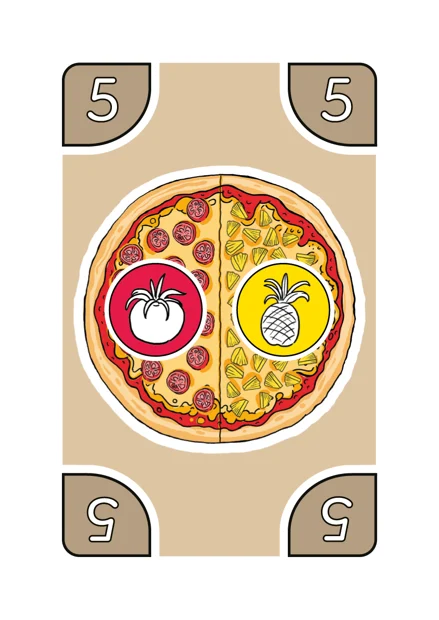
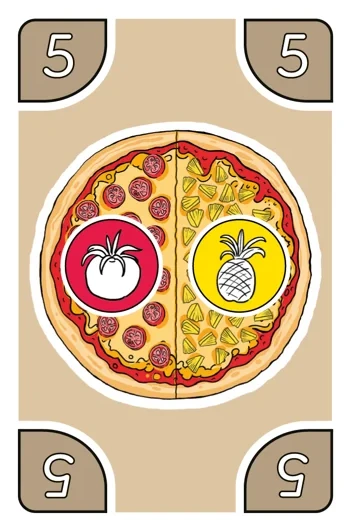
Korttipelisivun korttikuvat: läpinäkyvä reunus pois, varjo kortin muodon mukaan
Claude-Session: https://claude.ai/code/session_01Jrb5sMZjYt7DdvpXLCZY5S

diff --git a/docs/de/korttipeli.html b/docs/de/korttipeli.html
@@ -10,7 +10,7 @@
 <link rel="apple-touch-icon" href="../favicon-180.png">
 <link rel="preload" href="../fontit/poppins-400.woff2" as="font" type="font/woff2" crossorigin>
 <link rel="preload" href="../fontit/poppins-800.woff2" as="font" type="font/woff2" crossorigin>
-<link rel="stylesheet" href="../tyyli.css?v=36d48558">
+<link rel="stylesheet" href="../tyyli.css?v=ae012111">
 <link rel="canonical" href="https://pizzalove.fi/de/korttipeli.html">
 <link rel="alternate" hreflang="fi" href="https://pizzalove.fi/fi/korttipeli.html"><link rel="alternate" hreflang="sv" href="https://pizzalove.fi/sv/korttipeli.html"><link rel="alternate" hreflang="en" href="https://pizzalove.fi/en/korttipeli.html"><link rel="alternate" hreflang="de" href="https://pizzalove.fi/de/korttipeli.html"><link rel="alternate" hreflang="x-default" href="https://pizzalove.fi/">
 <meta property="og:title" content="Pizza Love® Kartenspiel – Regeln und Videos">
@@ -48,8 +48,8 @@
 <h2 id="perusteet">So entsteht eine Pizza</h2>
 <p>Alle drei Spiele beruhen auf derselben Grundregel. Lerne sie zuerst.</p>
 <div class="korttiparit">
-  <div class="korttipari"><img src="../kuvat/tausta-pizza.webp" width="439" height="620" alt=""><div><h3 style="margin-top:0">Pizzakarten</h3><p>Auf einer Pizzakarte ist eine Pizza mit einem bis vier verschiedenen Belägen. In den Ecken steht der Wert der Pizza (1–10). Im Spiel gibt es 10 Herzpizzas mit dem Wert 10.</p></div></div>
-  <div class="korttipari"><img src="../kuvat/tausta-tayte.webp" width="439" height="620" alt=""><div><h3 style="margin-top:0">Belagkarten</h3><p>Auf einer Belagkarte ist ein Belag. In den Ecken steht der Wert des Belags (1–10). Die 3 Fantasiebeläge (X) können jeder beliebige Belag sein.</p></div></div>
+  <div class="korttipari"><img src="../kuvat/tausta-pizza.webp" width="351" height="532" alt=""><div><h3 style="margin-top:0">Pizzakarten</h3><p>Auf einer Pizzakarte ist eine Pizza mit einem bis vier verschiedenen Belägen. In den Ecken steht der Wert der Pizza (1–10). Im Spiel gibt es 10 Herzpizzas mit dem Wert 10.</p></div></div>
+  <div class="korttipari"><img src="../kuvat/tausta-tayte.webp" width="351" height="532" alt=""><div><h3 style="margin-top:0">Belagkarten</h3><p>Auf einer Belagkarte ist ein Belag. In den Ecken steht der Wert des Belags (1–10). Die 3 Fantasiebeläge (X) können jeder beliebige Belag sein.</p></div></div>
 </div>
 
 <div class="laatikko">
@@ -59,9 +59,9 @@
   <p>Bereite die Pizza mit deinen eigenen Belagkarten zu und sage laut die Rechnung, die den Wert der Pizza ergibt. Alle Rechenarten sind erlaubt und dürfen kombiniert werden, solange das Ergebnis dem Wert der Pizza entspricht. Zum Beispiel <b>5 = 2 + 4 – 1</b>.</p>
   <h3>Beispiel: Tomaten-Ananas-Pizza</h3>
   <div class="esimerkki" role="img" aria-label="Eine Pizzakarte mit dem Wert 5, eine Tomate (2) und eine Ananas (3)">
-    <img src="../kuvat/pizza-31.webp" width="439" height="620" alt=""><b>=</b>
-    <img src="../kuvat/tayte-2.webp" width="439" height="620" alt=""><b>+</b>
-    <img src="../kuvat/tayte-3.webp" width="439" height="620" alt="">
+    <img src="../kuvat/pizza-31.webp" width="351" height="532" alt=""><b>=</b>
+    <img src="../kuvat/tayte-2.webp" width="351" height="532" alt=""><b>+</b>
+    <img src="../kuvat/tayte-3.webp" width="351" height="532" alt="">
   </div>
   <p>Die Pizza hat zwei Beläge und den Wert 5. Tomate 2 + Ananas 3 = 5. Es gibt noch andere Wege: 4 + 1, 6 – 1 oder sogar 10 : 2.</p>
 </div>

diff --git a/docs/sv/korttipeli.html b/docs/sv/korttipeli.html
@@ -10,7 +10,7 @@
 <link rel="apple-touch-icon" href="../favicon-180.png">
 <link rel="preload" href="../fontit/poppins-400.woff2" as="font" type="font/woff2" crossorigin>
 <link rel="preload" href="../fontit/poppins-800.woff2" as="font" type="font/woff2" crossorigin>
-<link rel="stylesheet" href="../tyyli.css?v=36d48558">
+<link rel="stylesheet" href="../tyyli.css?v=ae012111">
 <link rel="canonical" href="https://pizzalove.fi/sv/korttipeli.html">
 <link rel="alternate" hreflang="fi" href="https://pizzalove.fi/fi/korttipeli.html"><link rel="alternate" hreflang="sv" href="https://pizzalove.fi/sv/korttipeli.html"><link rel="alternate" hreflang="en" href="https://pizzalove.fi/en/korttipeli.html"><link rel="alternate" hreflang="de" href="https://pizzalove.fi/de/korttipeli.html"><link rel="alternate" hreflang="x-default" href="https://pizzalove.fi/">
 <meta property="og:title" content="Pizza Love® kortspel – regler och videor">
@@ -48,8 +48,8 @@
 <h2 id="perusteet">Så tillagar du en pizza</h2>
 <p>Alla tre spelen bygger på samma grundregel. Lär dig den först.</p>
 <div class="korttiparit">
-  <div class="korttipari"><img src="../kuvat/tausta-pizza.webp" width="439" height="620" alt=""><div><h3 style="margin-top:0">Pizzakort</h3><p>På pizzakortet finns en pizza med en till fyra olika fyllningar. I kortets hörn syns pizzans värde (1–10). Spelet innehåller 10 hjärtpizzor med värdet 10.</p></div></div>
-  <div class="korttipari"><img src="../kuvat/tausta-tayte.webp" width="439" height="620" alt=""><div><h3 style="margin-top:0">Fyllningskort</h3><p>På fyllningskortet finns en fyllning. I kortets hörn syns fyllningens värde (1–10). De 3 fantasifyllningarna (X) kan vara vilken fyllning som helst.</p></div></div>
+  <div class="korttipari"><img src="../kuvat/tausta-pizza.webp" width="351" height="532" alt=""><div><h3 style="margin-top:0">Pizzakort</h3><p>På pizzakortet finns en pizza med en till fyra olika fyllningar. I kortets hörn syns pizzans värde (1–10). Spelet innehåller 10 hjärtpizzor med värdet 10.</p></div></div>
+  <div class="korttipari"><img src="../kuvat/tausta-tayte.webp" width="351" height="532" alt=""><div><h3 style="margin-top:0">Fyllningskort</h3><p>På fyllningskortet finns en fyllning. I kortets hörn syns fyllningens värde (1–10). De 3 fantasifyllningarna (X) kan vara vilken fyllning som helst.</p></div></div>
 </div>
 
 <div class="laatikko">
@@ -59,9 +59,9 @@
   <p>Tillaga pizzan med dina egna fyllningskort och säg högt den räkneoperation som ger pizzans värde. Alla räknesätt är tillåtna och kan kombineras, så länge resultatet är lika med pizzans värde. Till exempel <b>5 = 2 + 4 – 1</b>.</p>
   <h3>Exempel: tomat-ananas-pizza</h3>
   <div class="esimerkki" role="img" aria-label="Ett pizzakort med värdet 5, en tomat (2) och en ananas (3)">
-    <img src="../kuvat/pizza-31.webp" width="439" height="620" alt=""><b>=</b>
-    <img src="../kuvat/tayte-2.webp" width="439" height="620" alt=""><b>+</b>
-    <img src="../kuvat/tayte-3.webp" width="439" height="620" alt="">
+    <img src="../kuvat/pizza-31.webp" width="351" height="532" alt=""><b>=</b>
+    <img src="../kuvat/tayte-2.webp" width="351" height="532" alt=""><b>+</b>
+    <img src="../kuvat/tayte-3.webp" width="351" height="532" alt="">
   </div>
   <p>Pizzan har två fyllningar och dess värde är 5. Tomat 2 + ananas 3 = 5. Det finns fler sätt: 4 + 1, 6 – 1 eller till och med 10 : 2.</p>
 </div>

diff --git a/docs/en/korttipeli.html b/docs/en/korttipeli.html
@@ -10,7 +10,7 @@
 <link rel="apple-touch-icon" href="../favicon-180.png">
 <link rel="preload" href="../fontit/poppins-400.woff2" as="font" type="font/woff2" crossorigin>
 <link rel="preload" href="../fontit/poppins-800.woff2" as="font" type="font/woff2" crossorigin>
-<link rel="stylesheet" href="../tyyli.css?v=36d48558">
+<link rel="stylesheet" href="../tyyli.css?v=ae012111">
 <link rel="canonical" href="https://pizzalove.fi/en/korttipeli.html">
 <link rel="alternate" hreflang="fi" href="https://pizzalove.fi/fi/korttipeli.html"><link rel="alternate" hreflang="sv" href="https://pizzalove.fi/sv/korttipeli.html"><link rel="alternate" hreflang="en" href="https://pizzalove.fi/en/korttipeli.html"><link rel="alternate" hreflang="de" href="https://pizzalove.fi/de/korttipeli.html"><link rel="alternate" hreflang="x-default" href="https://pizzalove.fi/">
 <meta property="og:title" content="Pizza Love® card game – rules and videos">
@@ -48,8 +48,8 @@
 <h2 id="perusteet">How to make a pizza</h2>
 <p>All three games use the same basic rule. Learn this first.</p>
 <div class="korttiparit">
-  <div class="korttipari"><img src="../kuvat/tausta-pizza.webp" width="439" height="620" alt=""><div><h3 style="margin-top:0">Pizza cards</h3><p>A pizza card shows a pizza with one to four different toppings. The pizza’s value (1–10) is shown in the corners. The game includes 10 heart pizzas with the value 10.</p></div></div>
-  <div class="korttipari"><img src="../kuvat/tausta-tayte.webp" width="439" height="620" alt=""><div><h3 style="margin-top:0">Topping cards</h3><p>A topping card shows one topping. The topping’s value (1–10) is shown in the corners. The 3 fantasy toppings (X) can be any topping.</p></div></div>
+  <div class="korttipari"><img src="../kuvat/tausta-pizza.webp" width="351" height="532" alt=""><div><h3 style="margin-top:0">Pizza cards</h3><p>A pizza card shows a pizza with one to four different toppings. The pizza’s value (1–10) is shown in the corners. The game includes 10 heart pizzas with the value 10.</p></div></div>
+  <div class="korttipari"><img src="../kuvat/tausta-tayte.webp" width="351" height="532" alt=""><div><h3 style="margin-top:0">Topping cards</h3><p>A topping card shows one topping. The topping’s value (1–10) is shown in the corners. The 3 fantasy toppings (X) can be any topping.</p></div></div>
 </div>
 
 <div class="laatikko">
@@ -59,9 +59,9 @@
   <p>Make a pizza with your own topping cards and say aloud the calculation that matches the pizza’s value. All calculations are allowed and can be combined, as long as the result equals the pizza’s value. For example <b>5 = 2 + 4 – 1</b>.</p>
   <h3>Example: tomato–pineapple pizza</h3>
   <div class="esimerkki" role="img" aria-label="A pizza card with the value 5, a tomato (2) and a pineapple (3)">
-    <img src="../kuvat/pizza-31.webp" width="439" height="620" alt=""><b>=</b>
-    <img src="../kuvat/tayte-2.webp" width="439" height="620" alt=""><b>+</b>
-    <img src="../kuvat/tayte-3.webp" width="439" height="620" alt="">
+    <img src="../kuvat/pizza-31.webp" width="351" height="532" alt=""><b>=</b>
+    <img src="../kuvat/tayte-2.webp" width="351" height="532" alt=""><b>+</b>
+    <img src="../kuvat/tayte-3.webp" width="351" height="532" alt="">
   </div>
   <p>The pizza has two toppings and its value is 5. Tomato 2 + pineapple 3 = 5. There are other ways too: 4 + 1, 6 – 1 or even 10 : 2.</p>
 </div>

diff --git a/docs/fi/korttipeli.html b/docs/fi/korttipeli.html
@@ -10,7 +10,7 @@
 <link rel="apple-touch-icon" href="../favicon-180.png">
 <link rel="preload" href="../fontit/poppins-400.woff2" as="font" type="font/woff2" crossorigin>
 <link rel="preload" href="../fontit/poppins-800.woff2" as="font" type="font/woff2" crossorigin>
-<link rel="stylesheet" href="../tyyli.css?v=36d48558">
+<link rel="stylesheet" href="../tyyli.css?v=ae012111">
 <link rel="canonical" href="https://pizzalove.fi/fi/korttipeli.html">
 <link rel="alternate" hreflang="fi" href="https://pizzalove.fi/fi/korttipeli.html"><link rel="alternate" hreflang="sv" href="https://pizzalove.fi/sv/korttipeli.html"><link rel="alternate" hreflang="en" href="https://pizzalove.fi/en/korttipeli.html"><link rel="alternate" hreflang="de" href="https://pizzalove.fi/de/korttipeli.html"><link rel="alternate" hreflang="x-default" href="https://pizzalove.fi/">
 <meta property="og:title" content="Pizza Love® -korttipeli – säännöt ja videot">
@@ -48,8 +48,8 @@
 <h2 id="perusteet">Näin pizza tehdään</h2>
 <p>Kaikki kolme peliä perustuvat samaan sääntöön. Opettele tämä ensin.</p>
 <div class="korttiparit">
-  <div class="korttipari"><img src="../kuvat/tausta-pizza.webp" width="439" height="620" alt=""><div><h3 style="margin-top:0">Pizzakortit</h3><p>Pizzakortissa on pizza, jossa on yhdestä neljään eri täytettä. Kortin kulmissa on pizzan arvo (1–10). Pelissä on 10 sydänpizzaa, joiden arvo on 10.</p></div></div>
-  <div class="korttipari"><img src="../kuvat/tausta-tayte.webp" width="439" height="620" alt=""><div><h3 style="margin-top:0">Täytekortit</h3><p>Täytekortissa on yksi täyte. Kortin kulmissa on täytteen arvo (1–10). Kolme fantasiatäytettä (X) voivat olla mikä tahansa täyte.</p></div></div>
+  <div class="korttipari"><img src="../kuvat/tausta-pizza.webp" width="351" height="532" alt=""><div><h3 style="margin-top:0">Pizzakortit</h3><p>Pizzakortissa on pizza, jossa on yhdestä neljään eri täytettä. Kortin kulmissa on pizzan arvo (1–10). Pelissä on 10 sydänpizzaa, joiden arvo on 10.</p></div></div>
+  <div class="korttipari"><img src="../kuvat/tausta-tayte.webp" width="351" height="532" alt=""><div><h3 style="margin-top:0">Täytekortit</h3><p>Täytekortissa on yksi täyte. Kortin kulmissa on täytteen arvo (1–10). Kolme fantasiatäytettä (X) voivat olla mikä tahansa täyte.</p></div></div>
 </div>
 
 <div class="laatikko">
@@ -59,9 +59,9 @@
   <p>Valmista pizza omilla täytekorteillasi ja sano ääneen laskutoimitus, jolla saat pizzan arvon. Kaikki laskutoimitukset ovat sallittuja ja niitä saa yhdistää, kunhan tulos on pizzan arvo. Esimerkiksi <b>5 = 2 + 4 – 1</b>.</p>
   <h3>Esimerkki: tomaatti-ananaspizza</h3>
   <div class="esimerkki" role="img" aria-label="Pizzakortti, jonka arvo on 5, sekä tomaatti (2) ja ananas (3)">
-    <img src="../kuvat/pizza-31.webp" width="439" height="620" alt=""><b>=</b>
-    <img src="../kuvat/tayte-2.webp" width="439" height="620" alt=""><b>+</b>
-    <img src="../kuvat/tayte-3.webp" width="439" height="620" alt="">
+    <img src="../kuvat/pizza-31.webp" width="351" height="532" alt=""><b>=</b>
+    <img src="../kuvat/tayte-2.webp" width="351" height="532" alt=""><b>+</b>
+    <img src="../kuvat/tayte-3.webp" width="351" height="532" alt="">
   </div>
   <p>Pizzassa on kaksi täytettä ja sen arvo on 5. Tomaatti 2 + ananas 3 = 5. Muitakin tapoja on: 4 + 1, 6 – 1 tai jopa 10 : 2.</p>
 </div>

diff --git a/docs/fi/lautapeli.html b/docs/fi/lautapeli.html
@@ -10,7 +10,7 @@
 <link rel="apple-touch-icon" href="../favicon-180.png">
 <link rel="preload" href="../fontit/poppins-400.woff2" as="font" type="font/woff2" crossorigin>
 <link rel="preload" href="../fontit/poppins-800.woff2" as="font" type="font/woff2" crossorigin>
-<link rel="stylesheet" href="../tyyli.css?v=36d48558">
+<link rel="stylesheet" href="../tyyli.css?v=ae012111">
 <link rel="canonical" href="https://pizzalove.fi/fi/lautapeli.html">
 <link rel="alternate" hreflang="fi" href="https://pizzalove.fi/fi/lautapeli.html"><link rel="alternate" hreflang="sv" href="https://pizzalove.fi/sv/lautapeli.html"><link rel="alternate" hreflang="en" href="https://pizzalove.fi/en/lautapeli.html"><link rel="alternate" hreflang="de" href="https://pizzalove.fi/de/lautapeli.html"><link rel="alternate" hreflang="x-default" href="https://pizzalove.fi/">
 <meta property="og:title" content="Pizza Love® -lautapeli – säännöt ja videot">

diff --git a/docs/de/lautapeli.html b/docs/de/lautapeli.html
@@ -10,7 +10,7 @@
 <link rel="apple-touch-icon" href="../favicon-180.png">
 <link rel="preload" href="../fontit/poppins-400.woff2" as="font" type="font/woff2" crossorigin>
 <link rel="preload" href="../fontit/poppins-800.woff2" as="font" type="font/woff2" crossorigin>
-<link rel="stylesheet" href="../tyyli.css?v=36d48558">
+<link rel="stylesheet" href="../tyyli.css?v=ae012111">
 <link rel="canonical" href="https://pizzalove.fi/de/lautapeli.html">
 <link rel="alternate" hreflang="fi" href="https://pizzalove.fi/fi/lautapeli.html"><link rel="alternate" hreflang="sv" href="https://pizzalove.fi/sv/lautapeli.html"><link rel="alternate" hreflang="en" href="https://pizzalove.fi/en/lautapeli.html"><link rel="alternate" hreflang="de" href="https://pizzalove.fi/de/lautapeli.html"><link rel="alternate" hreflang="x-default" href="https://pizzalove.fi/">
 <meta property="og:title" content="Pizza Love® Brettspiel – Regeln und Videos">

diff --git a/docs/en/lautapeli.html b/docs/en/lautapeli.html
@@ -10,7 +10,7 @@
 <link rel="apple-touch-icon" href="../favicon-180.png">
 <link rel="preload" href="../fontit/poppins-400.woff2" as="font" type="font/woff2" crossorigin>
 <link rel="preload" href="../fontit/poppins-800.woff2" as="font" type="font/woff2" crossorigin>
-<link rel="stylesheet" href="../tyyli.css?v=36d48558">
+<link rel="stylesheet" href="../tyyli.css?v=ae012111">
 <link rel="canonical" href="https://pizzalove.fi/en/lautapeli.html">
 <link rel="alternate" hreflang="fi" href="https://pizzalove.fi/fi/lautapeli.html"><link rel="alternate" hreflang="sv" href="https://pizzalove.fi/sv/lautapeli.html"><link rel="alternate" hreflang="en" href="https://pizzalove.fi/en/lautapeli.html"><link rel="alternate" hreflang="de" href="https://pizzalove.fi/de/lautapeli.html"><link rel="alternate" hreflang="x-default" href="https://pizzalove.fi/">
 <meta property="og:title" content="Pizza Love® board game – rules and videos">

diff --git a/docs/sv/lautapeli.html b/docs/sv/lautapeli.html
@@ -10,7 +10,7 @@
 <link rel="apple-touch-icon" href="../favicon-180.png">
 <link rel="preload" href="../fontit/poppins-400.woff2" as="font" type="font/woff2" crossorigin>
 <link rel="preload" href="../fontit/poppins-800.woff2" as="font" type="font/woff2" crossorigin>
-<link rel="stylesheet" href="../tyyli.css?v=36d48558">
+<link rel="stylesheet" href="../tyyli.css?v=ae012111">
 <link rel="canonical" href="https://pizzalove.fi/sv/lautapeli.html">
 <link rel="alternate" hreflang="fi" href="https://pizzalove.fi/fi/lautapeli.html"><link rel="alternate" hreflang="sv" href="https://pizzalove.fi/sv/lautapeli.html"><link rel="alternate" hreflang="en" href="https://pizzalove.fi/en/lautapeli.html"><link rel="alternate" hreflang="de" href="https://pizzalove.fi/de/lautapeli.html"><link rel="alternate" hreflang="x-default" href="https://pizzalove.fi/">
 <meta property="og:title" content="Pizza Love® brädspel – regler och videor">

diff --git a/docs/tyyli.css b/docs/tyyli.css
@@ -167,11 +167,11 @@ ul.lista li,ol.lista li{margin:4px 0}
 
 /* Esimerkkikortit: pizza = täyte + täyte */
 .esimerkki{display:flex;align-items:center;justify-content:center;gap:8px;flex-wrap:wrap;margin:10px 0 14px}
-.esimerkki img{width:clamp(64px,18vw,104px);border-radius:8px;box-shadow:0 2px 8px rgba(0,0,0,.12)}
+.esimerkki img{width:clamp(64px,18vw,104px);filter:drop-shadow(0 3px 6px rgba(60,30,0,.22))}
 .esimerkki b{font-size:26px;font-weight:800;color:var(--soft)}
 .korttiparit{display:grid;grid-template-columns:1fr 1fr;gap:12px;margin:8px 0}
 .korttipari{display:grid;grid-template-columns:72px 1fr;gap:12px;align-items:start}
-.korttipari img{width:72px;border-radius:6px;box-shadow:0 2px 6px rgba(0,0,0,.12)}
+.korttipari img{width:64px;filter:drop-shadow(0 3px 5px rgba(60,30,0,.2))}
 .korttipari p{font-size:14.5px;margin:0}
 @media (max-width:560px){.korttiparit{grid-template-columns:1fr}}
 

diff --git a/julkinen/tyyli.css b/julkinen/tyyli.css
@@ -167,11 +167,11 @@ ul.lista li,ol.lista li{margin:4px 0}
 
 /* Esimerkkikortit: pizza = täyte + täyte */
 .esimerkki{display:flex;align-items:center;justify-content:center;gap:8px;flex-wrap:wrap;margin:10px 0 14px}
-.esimerkki img{width:clamp(64px,18vw,104px);border-radius:8px;box-shadow:0 2px 8px rgba(0,0,0,.12)}
+.esimerkki img{width:clamp(64px,18vw,104px);filter:drop-shadow(0 3px 6px rgba(60,30,0,.22))}
 .esimerkki b{font-size:26px;font-weight:800;color:var(--soft)}
 .korttiparit{display:grid;grid-template-columns:1fr 1fr;gap:12px;margin:8px 0}
 .korttipari{display:grid;grid-template-columns:72px 1fr;gap:12px;align-items:start}
-.korttipari img{width:72px;border-radius:6px;box-shadow:0 2px 6px rgba(0,0,0,.12)}
+.korttipari img{width:64px;filter:drop-shadow(0 3px 5px rgba(60,30,0,.2))}
 .korttipari p{font-size:14.5px;margin:0}
 @media (max-width:560px){.korttiparit{grid-template-columns:1fr}}
 

diff --git a/docs/fi/index.html b/docs/fi/index.html
@@ -10,7 +10,7 @@
 <link rel="apple-touch-icon" href="../favicon-180.png">
 <link rel="preload" href="../fontit/poppins-400.woff2" as="font" type="font/woff2" crossorigin>
 <link rel="preload" href="../fontit/poppins-800.woff2" as="font" type="font/woff2" crossorigin>
-<link rel="stylesheet" href="../tyyli.css?v=36d48558">
+<link rel="stylesheet" href="../tyyli.css?v=ae012111">
 <link rel="canonical" href="https://pizzalove.fi/fi/">
 <link rel="alternate" hreflang="fi" href="https://pizzalove.fi/fi/"><link rel="alternate" hreflang="sv" href="https://pizzalove.fi/sv/"><link rel="alternate" hreflang="en" href="https://pizzalove.fi/en/"><link rel="alternate" hreflang="de" href="https://pizzalove.fi/de/"><link rel="alternate" hreflang="x-default" href="https://pizzalove.fi/">
 <meta property="og:title" content="Pizza Love® – säännöt, videot ja verkkopeli">

diff --git a/docs/de/index.html b/docs/de/index.html
@@ -10,7 +10,7 @@
 <link rel="apple-touch-icon" href="../favicon-180.png">
 <link rel="preload" href="../fontit/poppins-400.woff2" as="font" type="font/woff2" crossorigin>
 <link rel="preload" href="../fontit/poppins-800.woff2" as="font" type="font/woff2" crossorigin>
-<link rel="stylesheet" href="../tyyli.css?v=36d48558">
+<link rel="stylesheet" href="../tyyli.css?v=ae012111">
 <link rel="canonical" href="https://pizzalove.fi/de/">
 <link rel="alternate" hreflang="fi" href="https://pizzalove.fi/fi/"><link rel="alternate" hreflang="sv" href="https://pizzalove.fi/sv/"><link rel="alternate" hreflang="en" href="https://pizzalove.fi/en/"><link rel="alternate" hreflang="de" href="https://pizzalove.fi/de/"><link rel="alternate" hreflang="x-default" href="https://pizzalove.fi/">
 <meta property="og:title" content="Pizza Love® – Regeln, Videos und Online-Spiel">
